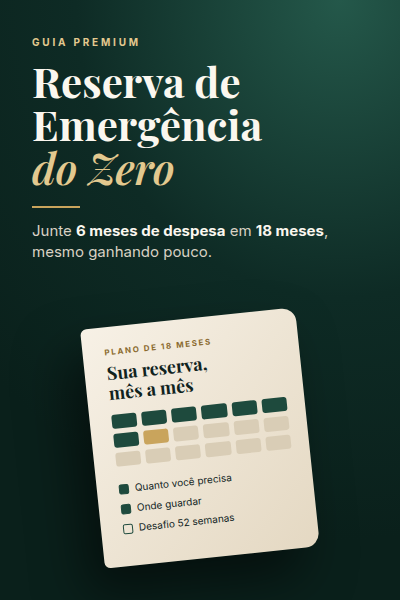
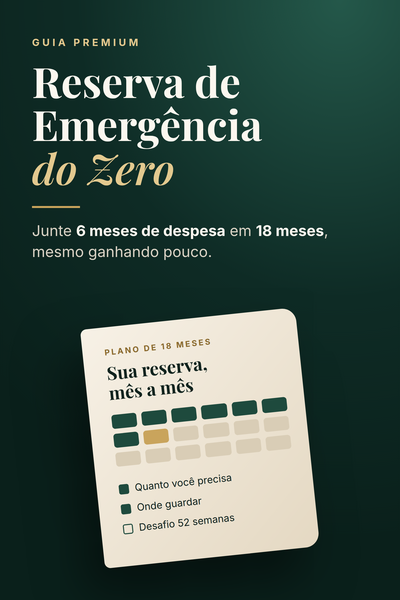
Regenerate all product images with 4x supersampling and add @2x versions
Claude-Session: https://claude.ai/code/session_01QFFsCkkvzNacPWzC9Xb8fi

diff --git a/cakto/imagens/fonte/pecas-painel.html b/cakto/imagens/fonte/pecas-painel.html
@@ -223,6 +223,56 @@
   <div class="dots d52" data-min="12" data-max="30" data-h="36" style="left:1100px;width:560px;top:140px;gap:14px 8px"></div>
 </section>
 
+
+<!-- ============ 300 x 250 · IMAGEM DO PRODUTO ============ -->
+<section class="pc escuro" id="produto-principal" style="width:300px;height:250px">
+  <div style="position:absolute;left:20px;top:22px;width:166px">
+    <div class="k" style="font-size:9px">Guia Premium</div>
+    <h1 style="font-size:25px;margin-top:8px">Reserva de Emergência <em style="white-space:nowrap">do Zero</em></h1>
+    <div class="rule" style="width:34px;margin:10px 0 8px"></div>
+    <p class="sub" style="font-size:11px;line-height:1.35"><b>6 meses de despesa</b> em <b>18 meses</b>, mesmo ganhando pouco.</p>
+  </div>
+  <div class="doc" style="left:196px;top:44px;width:104px;height:150px">
+    <div class="in" style="inset:14px 10px 10px 14px">
+      <div class="h" style="font-size:12.5px;margin:0 0 9px">Plano de<br>18 meses</div>
+      <div class="g" style="gap:3px"><span class="on" style="height:10px;border-radius:2px"></span><span class="on"></span><span class="on"></span><span class="on"></span><span class="on"></span><span class="on"></span><span class="on"></span><span class="m"></span><span></span><span></span><span></span><span></span><span></span><span></span><span></span><span></span><span></span><span></span></div>
+      <div class="ck" style="margin-top:10px;font-size:9px;line-height:1.9">
+        <div><i class="x" style="width:8px;height:8px;border-radius:2px;margin-right:4px"></i>Templates</div>
+        <div><i class="x" style="width:8px;height:8px;border-radius:2px;margin-right:4px"></i>Checklists</div>
+      </div>
+    </div>
+  </div>
+</section>
+
+<section class="pc claro" id="produto-calculadora" style="width:300px;height:250px">
+  <div style="position:absolute;left:20px;top:22px;width:176px">
+    <div class="k" style="font-size:9px">Ferramenta</div>
+    <h1 style="font-size:23.5px;margin-top:8px">Calculadora do <em style="white-space:nowrap">Seu Número</em></h1>
+    <div class="rule" style="width:34px;margin:10px 0 8px"></div>
+    <p class="sub" style="font-size:11px;line-height:1.35">Quanto guardar <b>por mês</b> pra chegar lá.</p>
+  </div>
+  <div class="dev" style="left:200px;top:22px;width:84px;height:206px;border-radius:16px;padding:5px;box-shadow:0 12px 26px rgba(14,43,37,.3)">
+    <div class="tela" style="border-radius:12px;padding:12px 8px">
+      <div class="campo" style="border-radius:4px;padding:5px 6px"><i style="width:26px;height:4px;border-radius:2px;background:rgba(243,237,226,.45)"></i><i style="width:18px;height:4px;border-radius:2px"></i></div>
+      <div class="campo" style="margin-top:4px;border-radius:4px;padding:5px 6px"><i style="width:30px;height:4px;border-radius:2px;background:rgba(243,237,226,.45)"></i><i style="width:18px;height:4px;border-radius:2px"></i></div>
+      <div class="campo" style="margin-top:4px;border-radius:4px;padding:5px 6px"><i style="width:22px;height:4px;border-radius:2px;background:rgba(243,237,226,.45)"></i><i style="width:18px;height:4px;border-radius:2px"></i></div>
+      <div class="res" style="margin-top:10px;border-radius:7px;padding:9px 7px;text-align:center"><div class="v" style="font-size:22px;line-height:1">6</div><div class="s" style="font-size:9px;margin-top:2px">meses</div></div>
+      <div class="bar" style="margin-top:12px;height:5px;border-radius:3px"><i></i></div>
+      <div class="campo m" style="margin-top:10px;border-radius:4px;padding:5px 6px"><i style="width:22px;height:4px;border-radius:2px;background:rgba(243,237,226,.45)"></i><i style="width:18px;height:4px;border-radius:2px"></i></div>
+    </div>
+  </div>
+</section>
+
+<section class="pc escuro" id="produto-52semanas" style="width:300px;height:250px">
+  <div style="position:absolute;left:20px;top:22px;right:20px">
+    <div class="k" style="font-size:9px">Desafio guiado</div>
+    <h1 style="font-size:25px;margin-top:8px">52 Semanas de <em>Depósito Crescente</em></h1>
+    <div class="rule" style="width:34px;margin:10px 0 0"></div>
+  </div>
+  <div class="dots d52" data-min="6" data-max="13" data-h="14" style="left:20px;right:20px;top:126px;gap:4px 3px"></div>
+  <p class="sub" style="position:absolute;left:20px;bottom:16px;font-size:11px">Um depósito por semana, <b>começando pequeno</b>.</p>
+</section>
+
 <script>
   document.querySelectorAll('.d52').forEach(g=>{
     const mn=+g.dataset.min,mx=+g.dataset.max,h=+g.dataset.h;

diff --git a/cakto/imagens/fonte/capas.html b/cakto/imagens/fonte/capas.html
@@ -2,7 +2,7 @@
 <html lang="pt-BR">
 <head>
 <meta charset="utf-8">
-<link rel="stylesheet" href="local.css">
+<link rel="stylesheet" href="../../produtos/src/fonts/local.css">
 <style>
   :root{
     --verde:#0E2B25; --verde2:#15392F; --verde3:#1E4A3D;
@@ -96,7 +96,7 @@
 <body>
 
 <!-- PRINCIPAL -->
-<section class="capa grain" id="principal">
+<section class="capa" id="principal">
   <div class="txt">
     <div class="kicker">Guia Premium</div>
     <h1 class="serif">Reserva de Emergência <em>do Zero</em></h1>
@@ -129,7 +129,7 @@
 </section>
 
 <!-- BUMP 1 -->
-<section class="capa grain" id="calc">
+<section class="capa" id="calc">
   <div class="txt">
     <div class="kicker">Ferramenta</div>
     <h1 class="serif">Calculadora do <em>Seu Número</em></h1>
@@ -159,7 +159,7 @@
 </section>
 
 <!-- BUMP 2 -->
-<section class="capa grain" id="semanas">
+<section class="capa" id="semanas">
   <div class="txt">
     <div class="kicker">Desafio guiado</div>
     <h1 class="serif">52 Semanas de <em>Depósito Crescente</em></h1>

diff --git a/cakto/PASSO-A-PASSO.md b/cakto/PASSO-A-PASSO.md
@@ -35,7 +35,7 @@ Para **cada um dos 3 produtos** (cada bump é um produto próprio e precisa da p
 > ⚠ Não confirmei na documentação da Cakto se a área de membros aceita anexar `.xlsx`. Se não aceitar: (1) suba o arquivo no Google Drive, (2) compartilhe como "qualquer pessoa com o link pode ver", (3) coloque o link na descrição da aula, junto com o PDF "Como usar". Também vale confirmar com o suporte da Cakto (infoprodutores@cakto.com.br) se quem compra o bump junto com o principal recebe o acesso aos dois automaticamente.
 
 ## Passo 3: imagens do painel (prontas, falta subir)
-Todas estão em `cakto/imagens/painel/`, no **tamanho exato** pedido pelo painel. Nenhuma precisa ser redimensionada.
+Todas estão em `cakto/imagens/painel/`, no **tamanho exato** pedido pelo painel. Elas são renderizadas em 4x e reduzidas com filtro de alta qualidade, o que deixa textos e bordas nítidos.
 
 | Onde no painel | Tamanho | Principal | Calculadora (bump 1) | 52 Semanas (bump 2) |
 |---|---|---|---|---|
@@ -44,13 +44,15 @@ Todas estão em `cakto/imagens/painel/`, no **tamanho exato** pedido pelo painel
 | Capa do módulo (área de membros) | 400×600 | `01-principal-modulo-400x600.png` | `02-calculadora-modulo-400x600.png` | `03-52semanas-modulo-400x600.png` |
 | Banner do produto | 1920×480 | `01-principal-banner-1920x480.png` | `02-calculadora-banner-1920x480.png` | `03-52semanas-banner-1920x480.png` |
 
+**Versões `@2x`:** cada imagem também tem uma versão com o dobro de pixels e a **mesma proporção** (ex.: `…-300x250@2x.png` tem 600×500). Use primeiro a de tamanho exato. Se no painel ou no celular ela parecer pouco nítida, troque pela `@2x`: como a proporção é igual, ela não distorce.
+
 - [ ] Suba cada imagem no campo correspondente dos 3 produtos.
 - [ ] Depois de subir, abra a pré-visualização. Se alguma aparecer cortada ou esticada, me diga em qual campo e o que foi cortado.
 - [ ] (Opcional) No produto principal → Order bumps → ativar "Exibir imagem" nos 2 bumps.
 
 Nos banners, textos e ilustrações ficam na faixa central (entre 260 e 1660 px na horizontal), para não serem cortados em telas estreitas.
 
-As versões anteriores (`imagens/300x250/` e as quadradas de 1080×1080) continuam no repositório. As quadradas servem para redes sociais e anúncios.
+Para redes sociais e anúncios, há versões quadradas de 1080×1080 em `cakto/imagens/quadradas/`.
 
 ## Passo 4: pagamento
 Os produtos nasceram com Pix, cartão, 3DS, PicPay, Google Pay e Apple Pay ativos.
